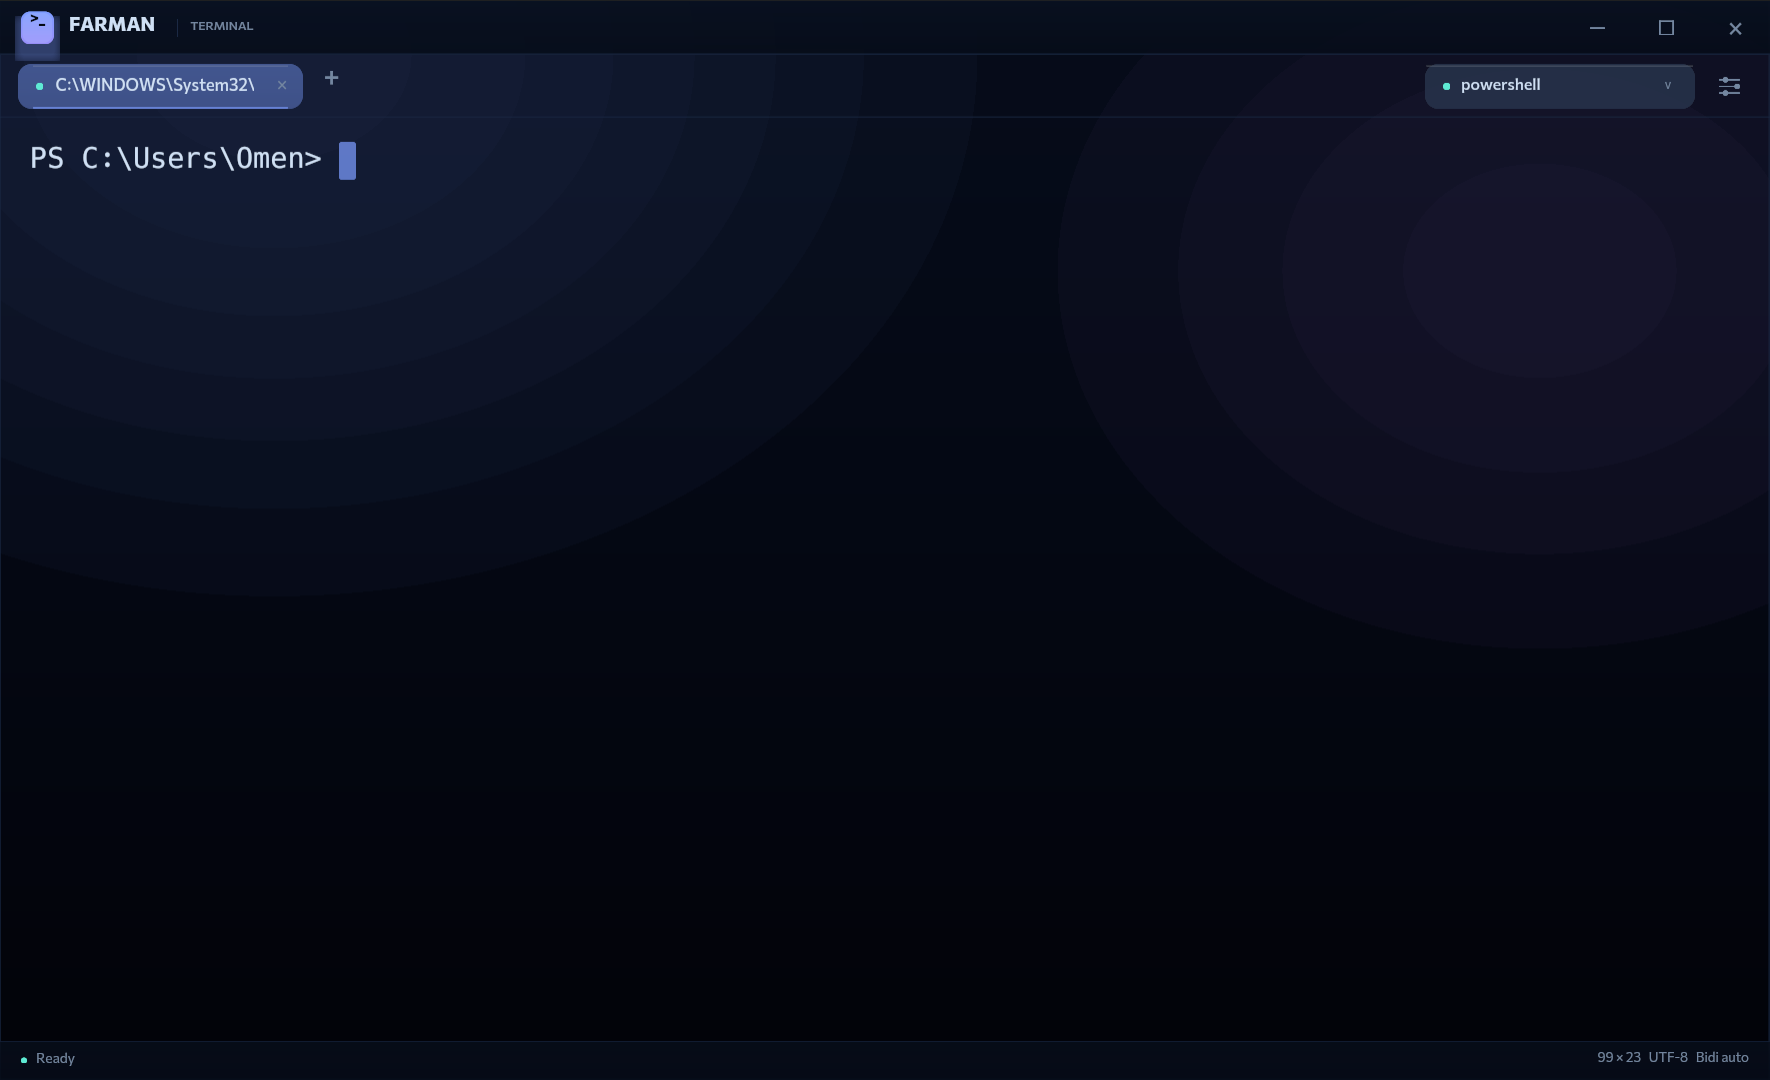
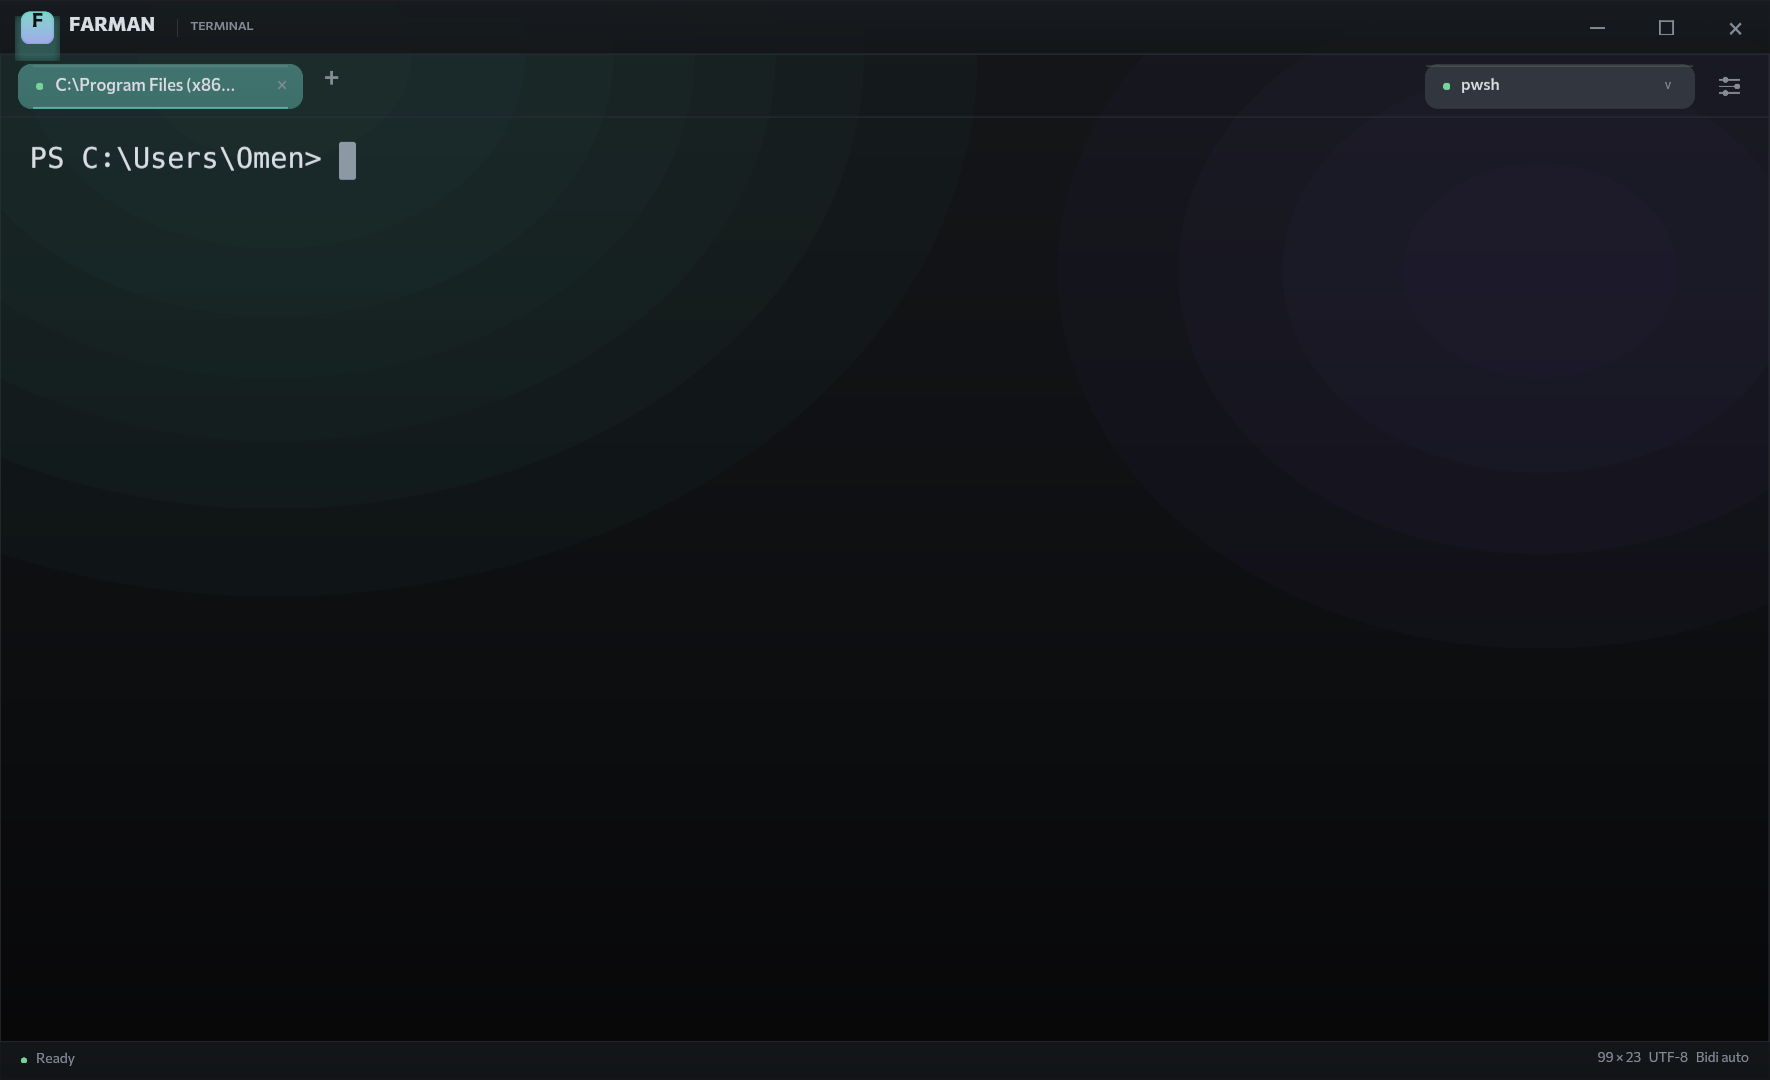
Use new FARMAN emblem branding and refresh release metadata

Changed region(s): [[0.0, 0.0, 0.1864, 0.1222], [0.1864, 0.1222, 0.2175, 0.1833], [0.839, 0.0611, 0.8701, 0.0917]]

diff --git a/docs/TESTING.md b/docs/TESTING.md
@@ -145,17 +145,17 @@ powershell -ExecutionPolicy Bypass -File scripts\package.ps1
 powershell -ExecutionPolicy Bypass -File scripts\build-installer.ps1
 ```
 
-- `target\release\farman.exe` — 12,717,056 bytes; embedded icon and Windows
-  version metadata (`FileVersion=0.2.0`, `ProductName=FARMAN Terminal`,
-  `CompanyName=Shahbaz Team`).
-- `dist\FARMAN-Terminal-0.2.0-win64.zip` — 6,763,052 bytes; portable release
+- `target\release\farman.exe` — 11,466,752 bytes; embedded new FARMAN emblem
+  icon and Windows version metadata (`FileVersion=0.2.0`,
+  `ProductName=FARMAN Terminal`, `CompanyName=Shahbaz Team`).
+- `dist\FARMAN-Terminal-0.2.0-win64.zip` — 5,794,924 bytes; portable release
   package with docs, licenses (including Pinar) and the example config.
-- `dist\FARMAN-Terminal-0.2.0-win64-setup.exe` — 7,469,709 bytes; per-user
+- `dist\FARMAN-Terminal-0.2.0-win64-setup.exe` — 6,636,886 bytes; per-user
   Inno Setup installer.
 - SHA-256:
[6 lines of base64/hex data omitted]
 - The release executable is launched and closed successfully after packaging.
 
 ## Not tested / not claimed
